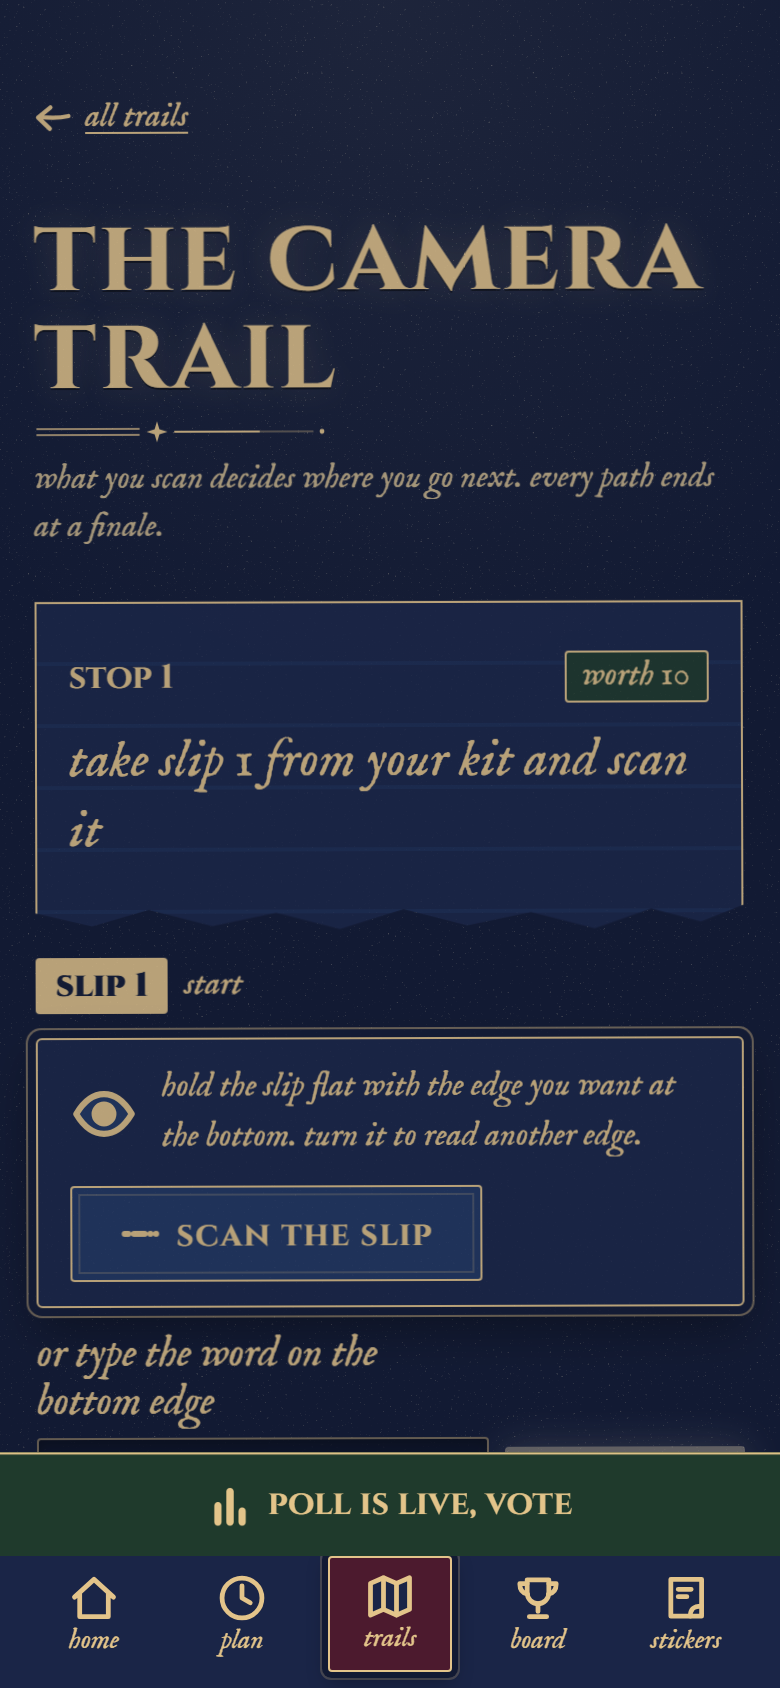
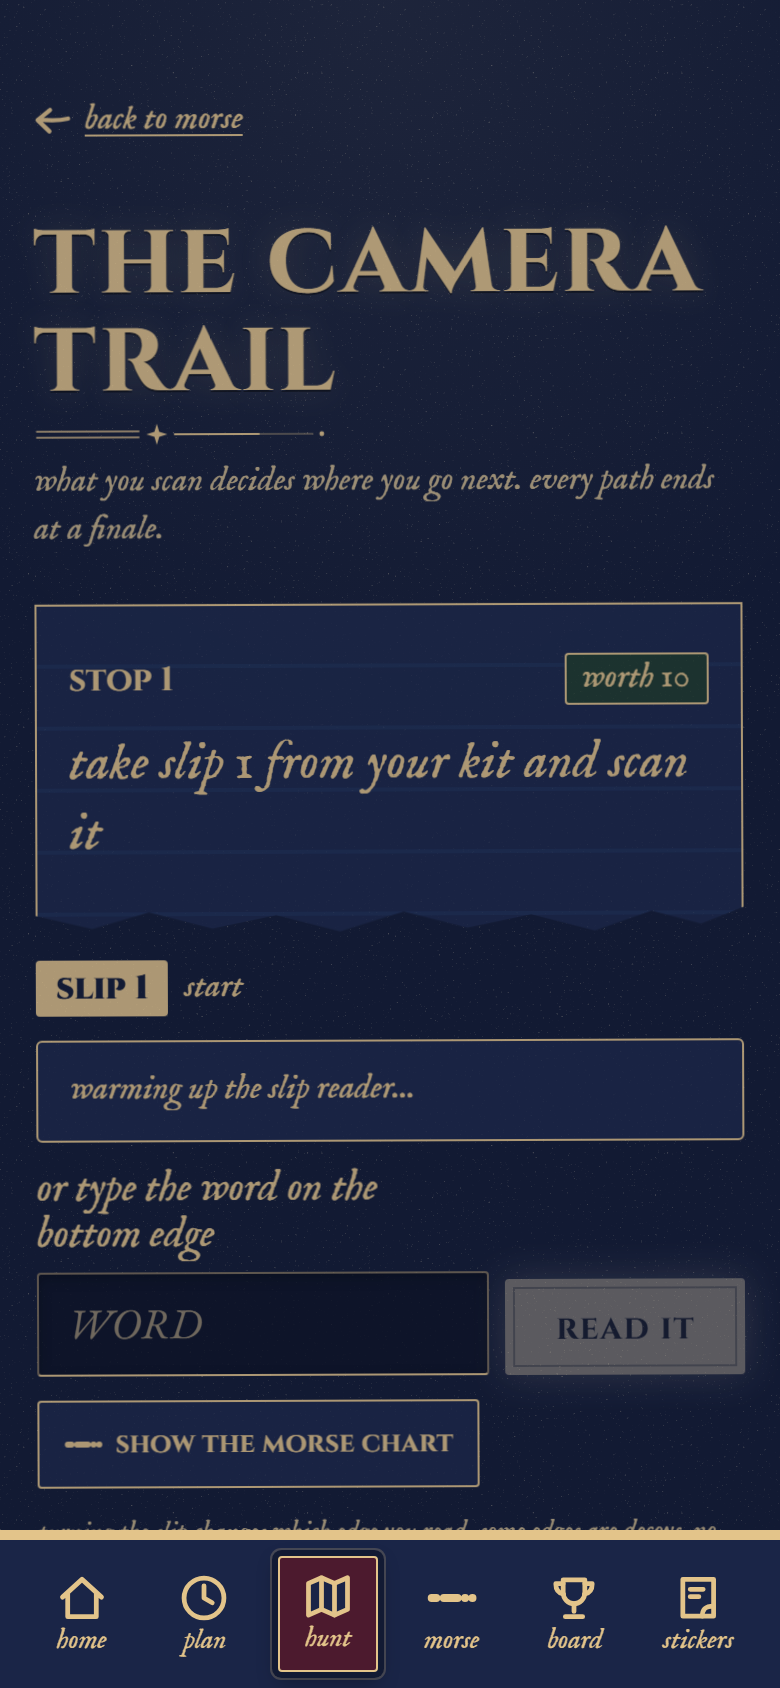
morse slip: getMorseTicketSet(ctx) for other features; one-ticket trail copy; e2e (port 4906) and screenshots

diff --git a/web/src/features/hunt/Attendee.tsx b/web/src/features/hunt/Attendee.tsx
@@ -404,7 +404,9 @@ export function HuntPage({ trailId = TREASURE_TRAIL_ID }: { trailId?: number }) 
       <PageHead
         title={me.title || 'the hunt'}
         note={
-          me.orderMode === 'shuffled'
+          me.total === 1
+            ? 'one ticket, four edges. every edge says something different, and your words are yours alone.'
+            : me.orderMode === 'shuffled'
             ? 'your clue order is yours alone. the last stop is the same for everyone.'
             : me.orderMode === 'graph'
               ? 'what you scan decides where you go next. every path ends at a finale.'
@@ -423,7 +425,9 @@ export function HuntPage({ trailId = TREASURE_TRAIL_ID }: { trailId?: number }) 
       ) : !me.started ? (
         <Card tone="sun" tilt={-1} tape className={s.startCard}>
           <p className={s.startText}>
-            {me.total} stops. scan the qr sticker at each one, or solve the clue. hints cost points. first finishers get bonuses.
+            {me.total === 1
+              ? 'one ticket from your kit. scan it, or decode it and type the word. turn it for a bonus. first finishers get bonuses.'
+              : `${me.total} stops. scan the qr sticker at each one, or solve the clue. hints cost points. first finishers get bonuses.`}
           </p>
           <StartButton trailId={trailId} onStarted={setHunt} />
         </Card>

diff --git a/e2e/morse-slip.spec.ts b/e2e/morse-slip.spec.ts
@@ -167,6 +167,7 @@ test.describe.serial('the morse slip: separate events, one ticket each, logouts'
     await phone('a', async (page) => {
       await page.goto(`/morse/t/${trailId}`);
       await page.getByRole('button', { name: 'start this trail' }).click();
+      await expect(page.getByText('Your kit has one Morse slip')).toBeVisible();
     });
     await phone(
       'a',
@@ -200,6 +201,7 @@ test.describe.serial('the morse slip: separate events, one ticket each, logouts'
     await phone('b', async (page) => {
       await page.goto(`/morse/t/${trailId}`);
       await page.getByRole('button', { name: 'start this trail' }).click();
+      await expect(page.getByText('Your kit has one Morse slip')).toBeVisible();
     });
     await phone(
       'b',

diff --git a/server/src/features/hunt/morseSlip.ts b/server/src/features/hunt/morseSlip.ts
@@ -28,6 +28,15 @@ export function findMorseSlip(ctx: FeatureContext): MorseSlipSetup | null {
   return set ? { trailId: t.id, setId: set.id, created: false } : null;
 }
 
+/**
+ * The set id of the morse ticket set: the unique slip set of the kind 'morse' trail titled "the morse slip"
+ * (80 printed tickets, one per kit), or null when it has not been created yet. For other features (cipher)
+ * that read ticket copies and claims through ./unique.
+ */
+export function getMorseTicketSet(ctx: FeatureContext): number | null {
+  return findMorseSlip(ctx)?.setId ?? null;
+}
+
 export function createMorseSlip(ctx: FeatureContext, copies = MORSE_SLIP_COPIES): MorseSlipSetup {
   const have = findMorseSlip(ctx);
   if (have) return have;
